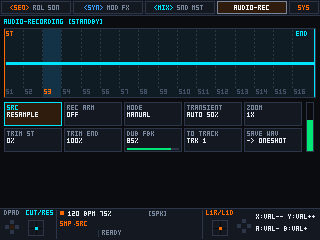
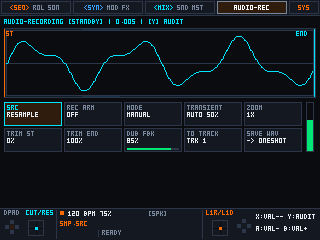
docs: update tour_05_sample screenshot and README for Milestone 50 (328 tests)
- Refresh tour_05_sample.png with live STANDBY scope, 0.00s duration, and [Y] AUDIT indicator
- Document unified [R1] AUDIO-REC workflow and update test badge to 328 passed in README.md

Changed region(s): [[0.0, 0.0583, 1.0, 0.4083], [0.9375, 0.875, 0.9688, 0.9042], [0.2812, 0.3208, 0.3125, 0.35]]

diff --git a/README.md b/README.md
@@ -2,7 +2,7 @@
 
 **[🇬🇧 English](README.md)** | **[🇺🇦 Українська](docs/README.uk.md)**
 
-[![Test Suite](https://img.shields.io/badge/tests-316%20passed-brightgreen.svg)](#)
+[![Test Suite](https://img.shields.io/badge/tests-328%20passed-brightgreen.svg)](#)
 [![Status](https://img.shields.io/badge/status-WIP%20Modular%20Framework-blue.svg)](#)
 [![Targets](https://img.shields.io/badge/handhelds-MagicX%20XU10%20%7C%20Trimui%20Brick%20Pro%20%7C%20R36S-orange.svg)](#)
 [![License](https://img.shields.io/badge/license-MIT-lightgrey.svg)](#)
@@ -80,9 +80,9 @@ Each of the **16 tracks** can dynamically load any of the 7 engines from `kSelec
 To prevent object-model confusion, sample playback and live audio recording are strictly separated in both code and UI:
 1. **`SAMPLE PLAYER` (Track Synth Engine in `[L2] SYNTH`):**
    * The instrument engine assigned to a sequencer track that plays loaded `.wav` files through the track's filter, modulation, and FX chain.
-2. **`AUDIO-RECORDING` (Global Workstation Tab in `[R1] AUDIO-REC` — *Experimental / WIP*):**
+2. **`AUDIO-RECORDING` (Global Workstation Tab in `[R1] AUDIO-REC`):**
    * The global audio recorder, master resampler (`SRC: RESAMPLE` or `LINE-IN / USB`), live looper, and transient slicer (`SamplerEngine`).
-   * *Note:* The `[R1] AUDIO-RECORDING` workflow and the monophonic loop `SLICER` mode (`8..128` grid slices) are **currently incomplete and under active testing**.
+   * Features unified live capture (`SMP.ARM`), instant trimmed buffer audition on `[Y] AUDIT` (`SAMPLE.AUDITION`) with a live waveform playhead cursor, one-click track assignment (`SMP.ASSIGN` in One-Shot or `SELECT` + Slicer mode), and `.wav` export (`SMP.SAVE` to `oneshots/` or `loops/`).
 
 ---
 
